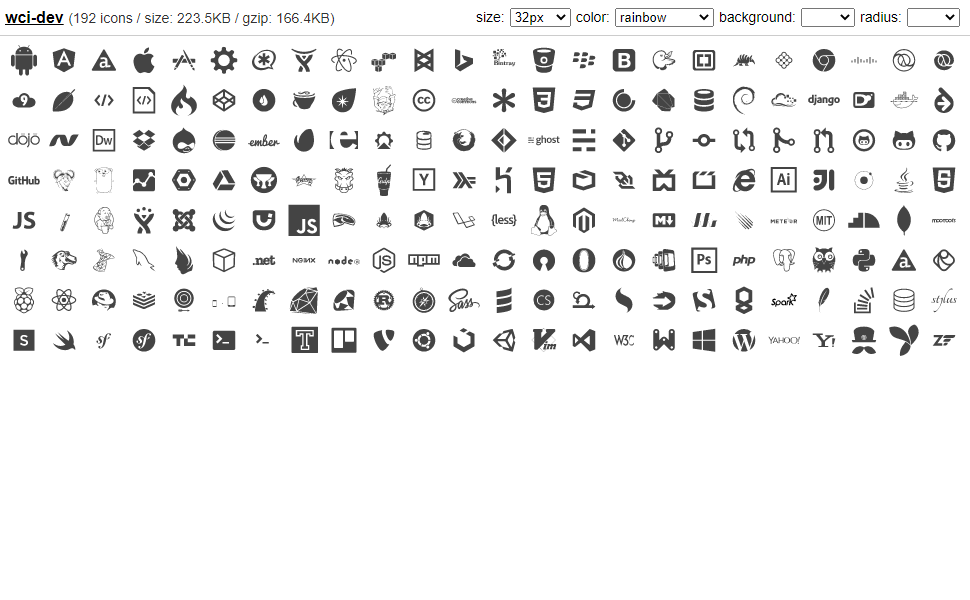
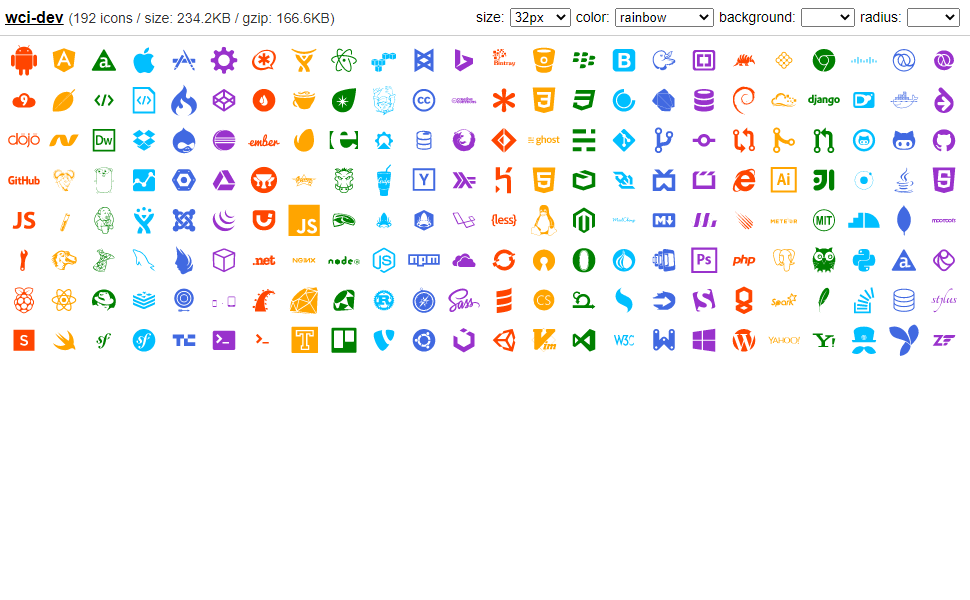
fix dev color

diff --git a/packages/dev/config.js b/packages/dev/config.js
@@ -8,5 +8,21 @@ module.exports = {
         name = name.toLowerCase();
         name = name.split('_').join('-');
         return this.onSVGNameDefault(name, item);
+    },
+    onSVGDocument: function($svg) {
+        let found = false;
+        ['path'].forEach(k => {
+            const $elem = $svg.find(k);
+            const fill = $elem.attr('fill');
+            if (fill && fill !== 'none') {
+                $elem.attr('fill', 'currentColor');
+                found = true;
+            }
+        });
+        if (found) {
+            return;
+        }
+        $svg.attr('fill', 'currentColor');
+        
     }
 };

diff --git a/packages/dev/preview/index.html b/packages/dev/preview/index.html
@@ -92,7 +92,7 @@
 
 <body>
     <div class="preview-head">
-        <div class="preview-title"><a href="https://github.com/cenfun/wci" target="_blank">wci-dev</a> <span>(192 icons / size: 223.5KB / gzip: 166.4KB)</span></div>
+        <div class="preview-title"><a href="https://github.com/cenfun/wci" target="_blank">wci-dev</a> <span>(192 icons / size: 234.2KB / gzip: 166.6KB)</span></div>
         <div class="preview-toolbar">
             size:
             <select class="icon-size">

diff --git a/packages/dev/README.md b/packages/dev/README.md
@@ -1,7 +1,7 @@
 # wci-dev
 Built from [devicons@1.8.0](https://github.com/vorillaz/devicons)  
 
-192 icons / size: 223.5KB / gzip: 166.4KB  
+192 icons / size: 234.2KB / gzip: 166.6KB  
 
 
 
